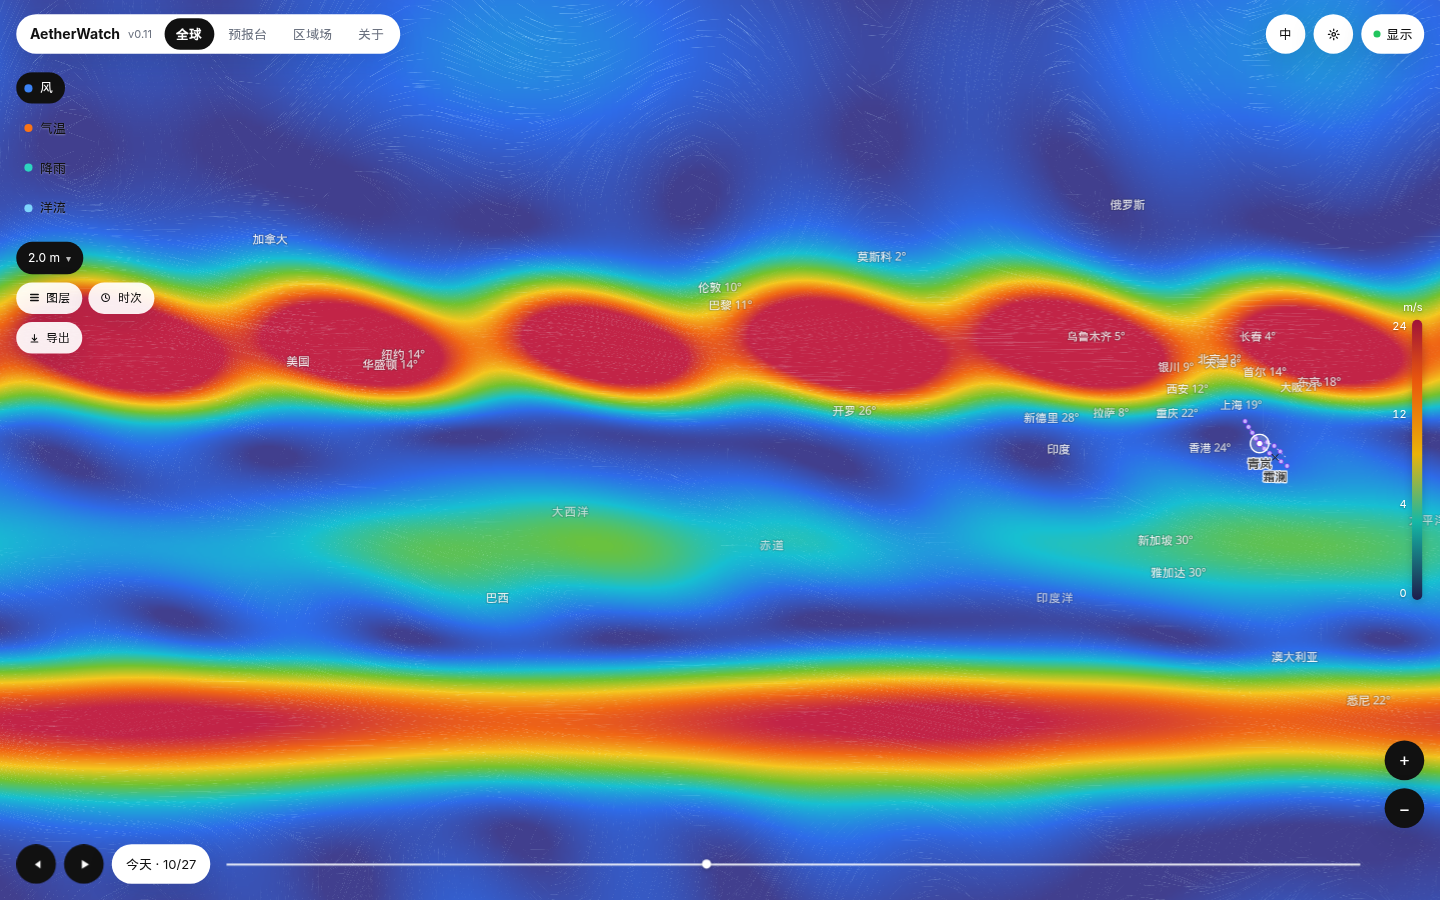
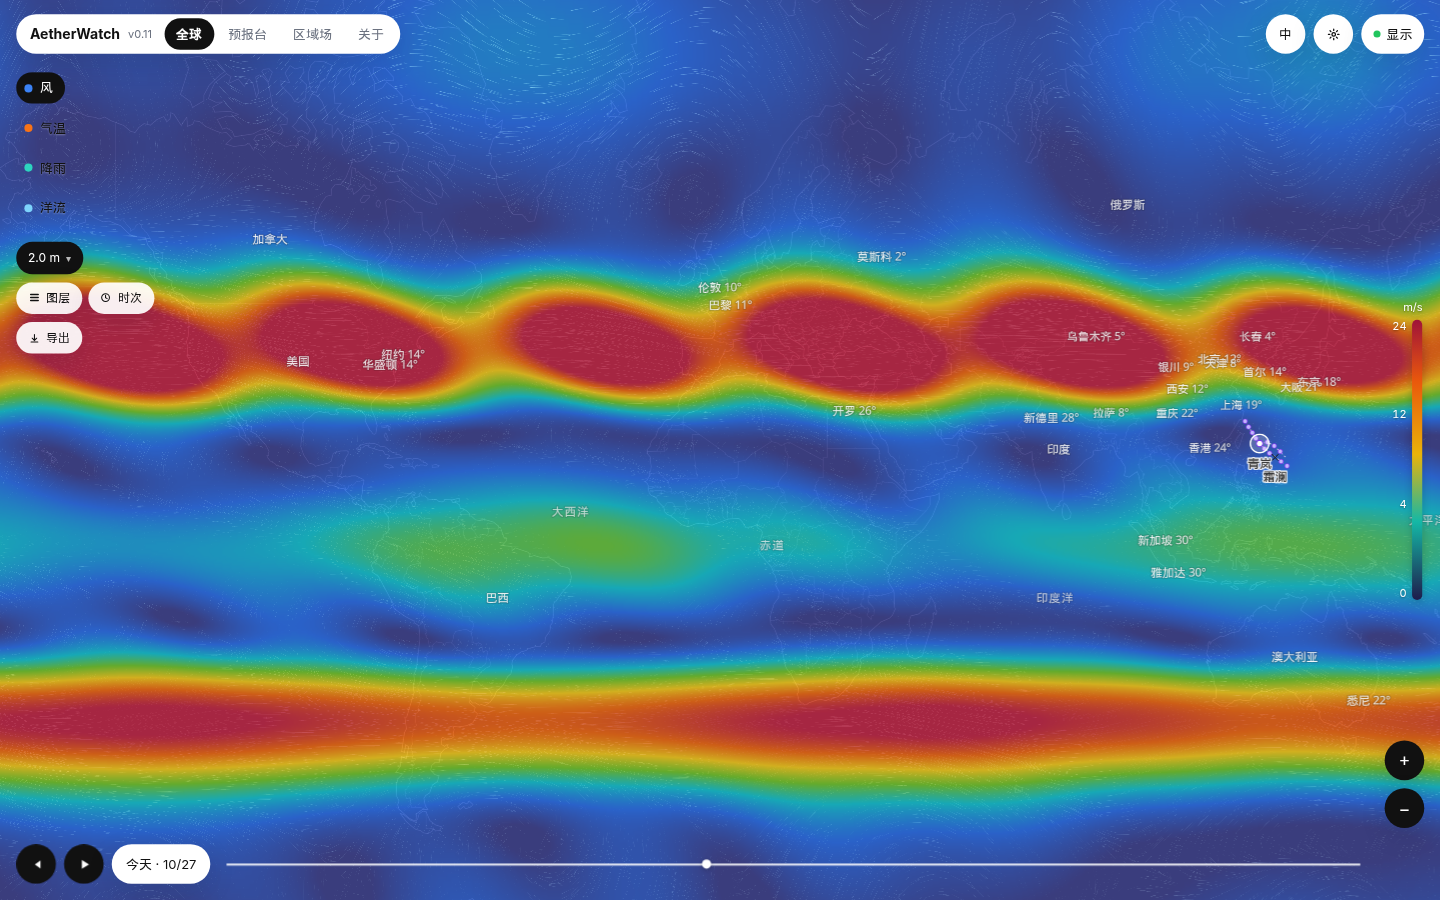
fix: tint wind silk by speed and recapture filled desk shots
Desk wind now fills Japan and India with the global field. Streamlines
pick up the speed ramp instead of staying near-white mist.

diff --git a/packages/particles/src/shaders.ts b/packages/particles/src/shaders.ts
@@ -359,8 +359,8 @@ void main() {
   float fade = mix(1.0, 0.18, v_along);
   float widthFade = 1.0 - smoothstep(0.28, 1.0, abs(v_side));
   vec3 ramp = windRamp(nrm);
-  vec3 rgb = mix(vec3(0.92, 0.96, 1.0), ramp, mix(0.38, 0.82, nrm));
-  float alpha = mix(0.38, 0.92, nrm) * fade * widthFade * edge;
+  vec3 rgb = mix(vec3(0.62, 0.72, 0.98), ramp, mix(0.55, 1.0, nrm));
+  float alpha = mix(0.48, 0.95, nrm) * fade * widthFade * edge;
   fragColor = vec4(rgb, alpha);
 }
 `
